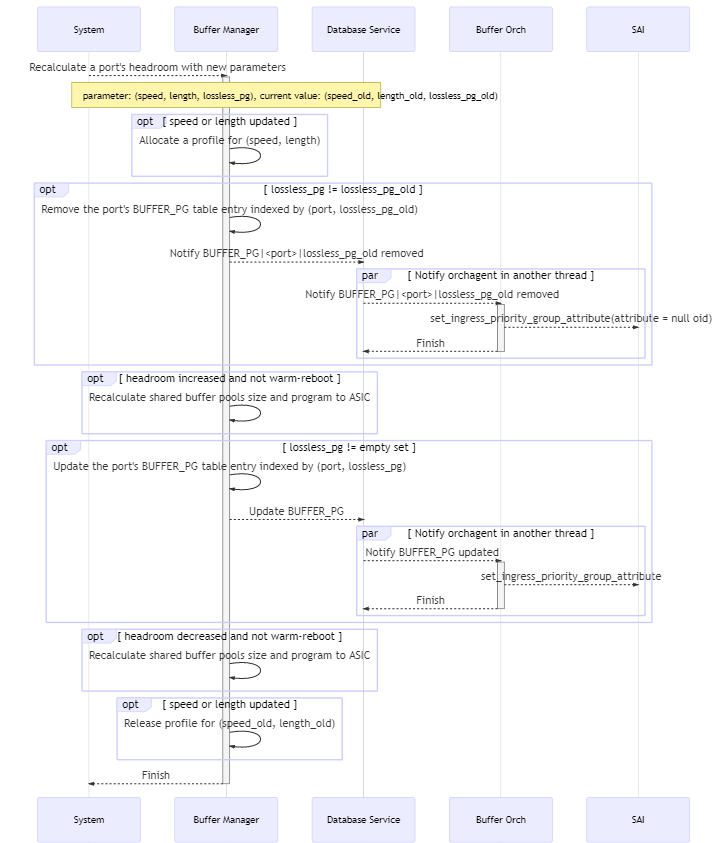
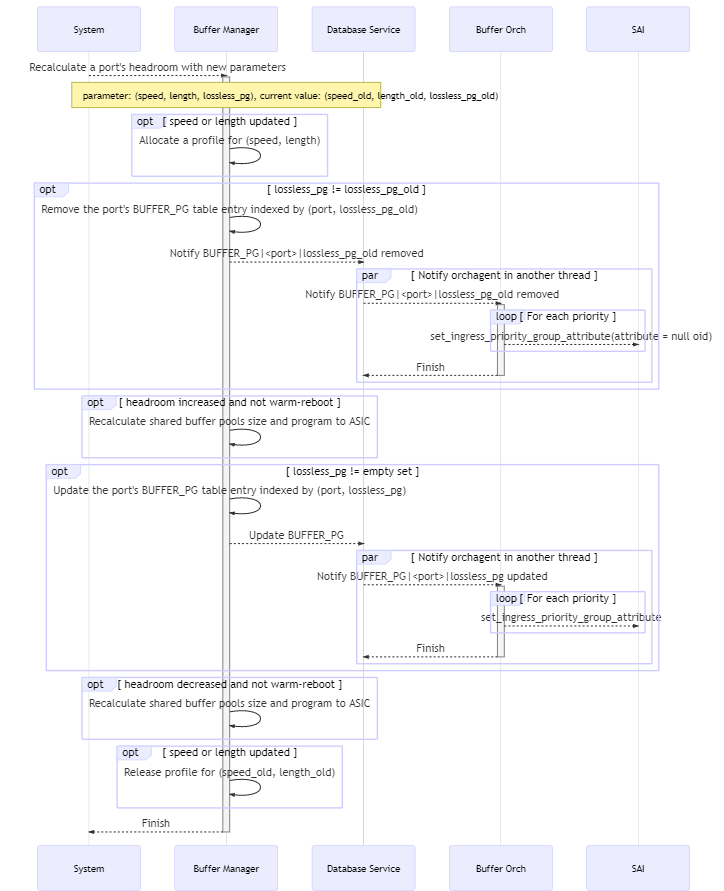
[qos]Update doc

diff --git a/doc/qos/dynamically-headroom-calculation.md b/doc/qos/dynamically-headroom-calculation.md
@@ -512,7 +512,7 @@ The values used in the above procedure are fetched from the following table:
 
 - `cable length`: CABLE_LENGTH|\<name\>|\<port\>
 - `port speed`: PORT|\<port name\>|speed
-- `kb on gearbox`: PERIPHERIAL_TABLE|\<gearbox name\>|other_delay
+- `kb on gearbox`: PERIPHERIAL_TABLE|\<gearbox name\>|gearbox_delay
 - `mac/phy delay`: ASIC_TABLE|\<asic name\>|mac_phy_delay
 - `peer response`: ASIC_TABLE|\<asic name\>|peer_response_time
 - `cell`: ASIC_TABLE|\<asic name\>|cell_size
@@ -541,7 +541,7 @@ When a port's `cable length` or `speed` updated, the profile related to the old 
 
 ![Flow](headroom-calculation-images/release-profile.png "Figure 1: Release a No-Longer-Referenced Profile")
 
-__Figure 1: Release a No-Longer-Referenced Profile__
+__Figure 2: Release a No-Longer-Referenced Profile__
 
 #### Calculate the Buffer Pool Size
 
@@ -561,7 +561,7 @@ The administratively down ports doesn't consume buffer hense they should be rule
 
 ![Flow](headroom-calculation-images/calculate-pool-size.png "Figure 1: Calculate the Pool Size")
 
-__Figure 1: Calculate the Pool Size__
+__Figure 3: Calculate the Pool Size__
 
 #### Calculate and deploy the headroom for a port, PG tuple
 
@@ -589,7 +589,7 @@ The flow is:
 
 ![Flow](headroom-calculation-images/recalculate.png "Figure 1: Calculate and deploy the Headroom For a Port, PG")
 
-__Figure 1: Calculate and deploy the Headroom For a Port, PG__
+__Figure 4: Calculate and deploy the Headroom For a Port, PG__
 
 ### Main Flows
 
@@ -609,7 +609,7 @@ There are admin speed and operational speed in the system, which stand for the s
 
 ![Flow](headroom-calculation-images/cable-length-speed-update.png "Figure 1: Cable length or speed updated")
 
-__Figure 1: Cable length or speed updated__
+__Figure 5: Cable length or speed updated__
 
 #### Port is administratively up/down
 
@@ -625,7 +625,7 @@ When a static headroom is configured on a port
 
 ![Flow](headroom-calculation-images/add-headroom-override.png "Figure 1: Apply Static Headroom Configure")
 
-__Figure 1: Apply Static Headroom Configure__
+__Figure 6: Apply Static Headroom Configure__
 
 #### Remove static headroom configure
 
@@ -634,15 +634,17 @@ When a static headroom is removed on a port:
 1. Allocate the buffer profile according to the port's speed and cable length.
 2. Recalculate the buffer pool size.
 
-![Flow](headroom-calculation-images/remove-headroom-override.png "Figure 1: Remove Static Headroom Configure")
+![Flow](headroom-calculation-images/remove-headroom-override.png "Figure 7: Remove Static Headroom Configure")
 
-__Figure 1: Remove Static Headroom Configure__
+__Figure 7: Remove Static Headroom Configure__
 
 #### Update static buffer profile
 
 When a static buffer profile is updated, it will be propagated to `Buffer Orch` and then `SAI`. The buffer pgs that reference this buffer profile don't need to be updated. However, as the total number of headroom buffer updated, the buffer pool size should be recalculated.
 
 ![Flow](headroom-calculation-images/static-profile-updated.png "Figure 1: Static Buffer Profile Updated")
+
+__Figure 8: Static Buffer Profile Updated__
 
 #### Configure the priorities on which lossless traffic runs
 

diff --git a/doc/qos/graphs.flow-chart.md b/doc/qos/graphs.flow-chart.md
@@ -103,24 +103,35 @@ sequenceDiagram
   Buffer Manager -->> Database Service: Notify BUFFER_PG|<port>|lossless_pg_old removed
   par Notify orchagent in another thread
   Database Service -->>+ Buffer Orch: Notify BUFFER_PG|<port>|lossless_pg_old removed
+  loop For each priority
   Buffer Orch -->> SAI: set_ingress_priority_group_attribute(attribute = null oid)
+  end
   Buffer Orch -->>- Database Service: Finish
   end
   end
-  opt headroom increased and not warm-reboot
-  Buffer Manager ->> Buffer Manager: Recalculate shared buffer pools size and program to ASIC
+  opt headroom size increased
+  Buffer Manager ->> Buffer Manager: Accumulate the total of headroom size
+  alt total headroom <= max headroom
+  Buffer Manager ->> Buffer Manager: Recalculate shared buffer pool and populate to ASIC
+  else total headroom size exceeds max headroom size, fatal
+  Buffer Manager ->> Buffer Manager: (data in APPL_DB untouched)
+  Buffer Manager -->> Syslog: Error message should be logged
+  Buffer Manager -->> System: Procedure exit
+  end
   end
   opt lossless_pg != empty set
   Buffer Manager ->> Buffer Manager: Update the port's BUFFER_PG table entry indexed by (port, lossless_pg)
   Buffer Manager -->> Database Service: Update BUFFER_PG
   par Notify orchagent in another thread
-  Database Service -->>+ Buffer Orch: Notify BUFFER_PG updated
+  Database Service -->>+ Buffer Orch: Notify BUFFER_PG|<port>|lossless_pg updated
+  loop For each priority
   Buffer Orch -->> SAI: set_ingress_priority_group_attribute
+  end
   Buffer Orch -->>- Database Service: Finish
   end
   end
   opt headroom decreased and not warm-reboot
-  Buffer Manager ->> Buffer Manager: Recalculate shared buffer pools size and program to ASIC
+  Buffer Manager ->> Buffer Manager: Recalculate shared buffer pools size and populate to ASIC
   end
   opt speed or length updated
   Buffer Manager ->> Buffer Manager: Release profile for (speed_old, length_old)
